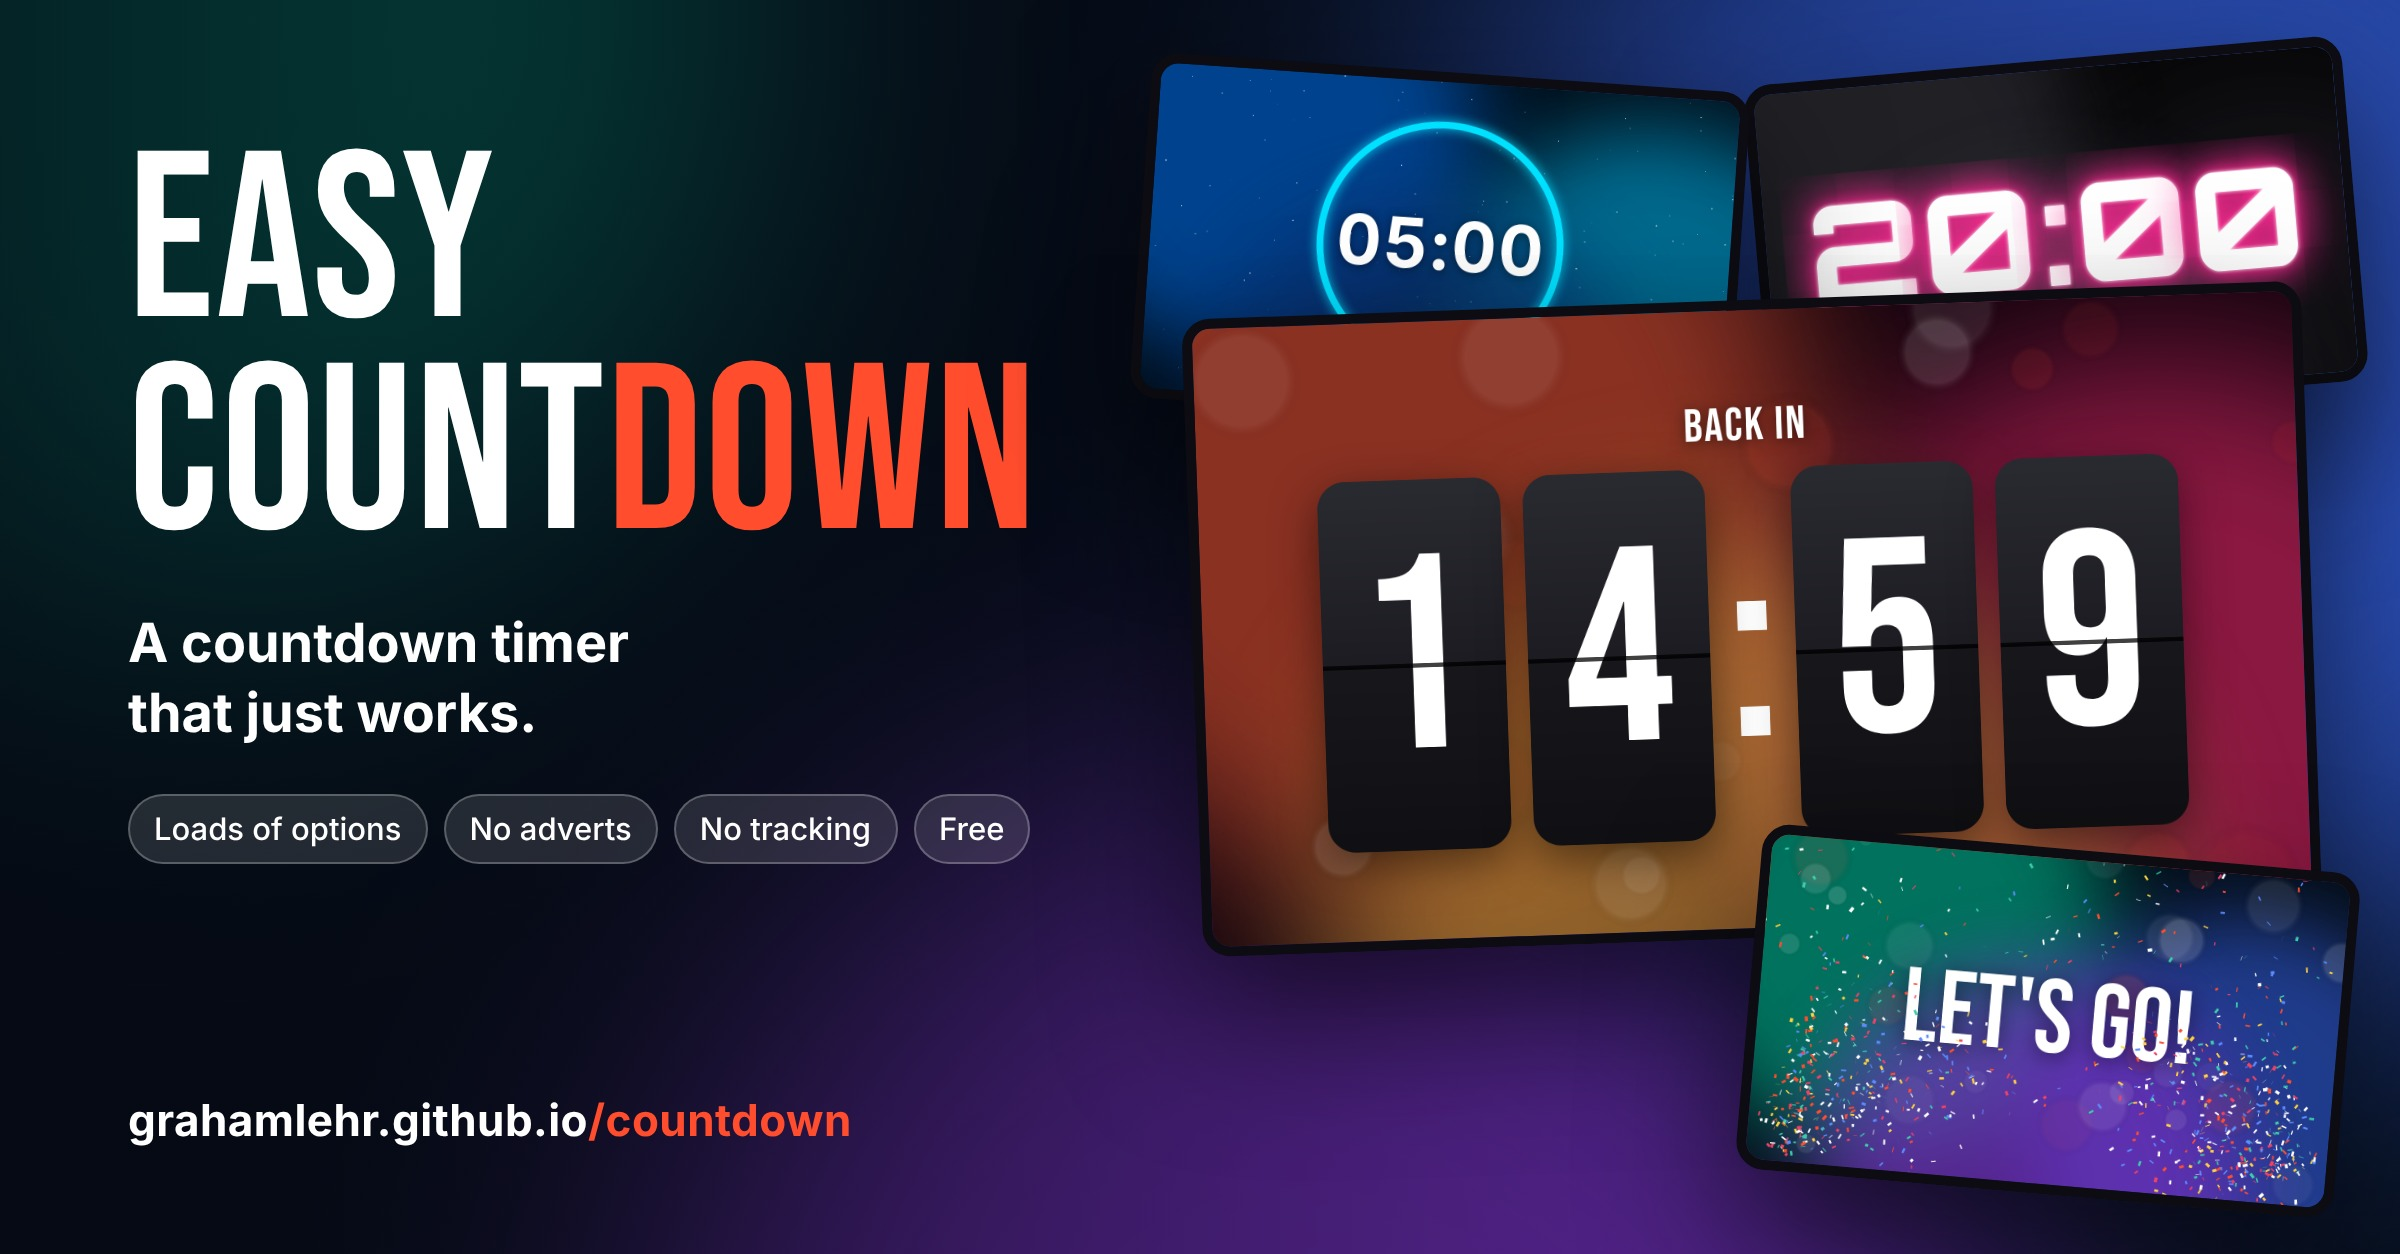
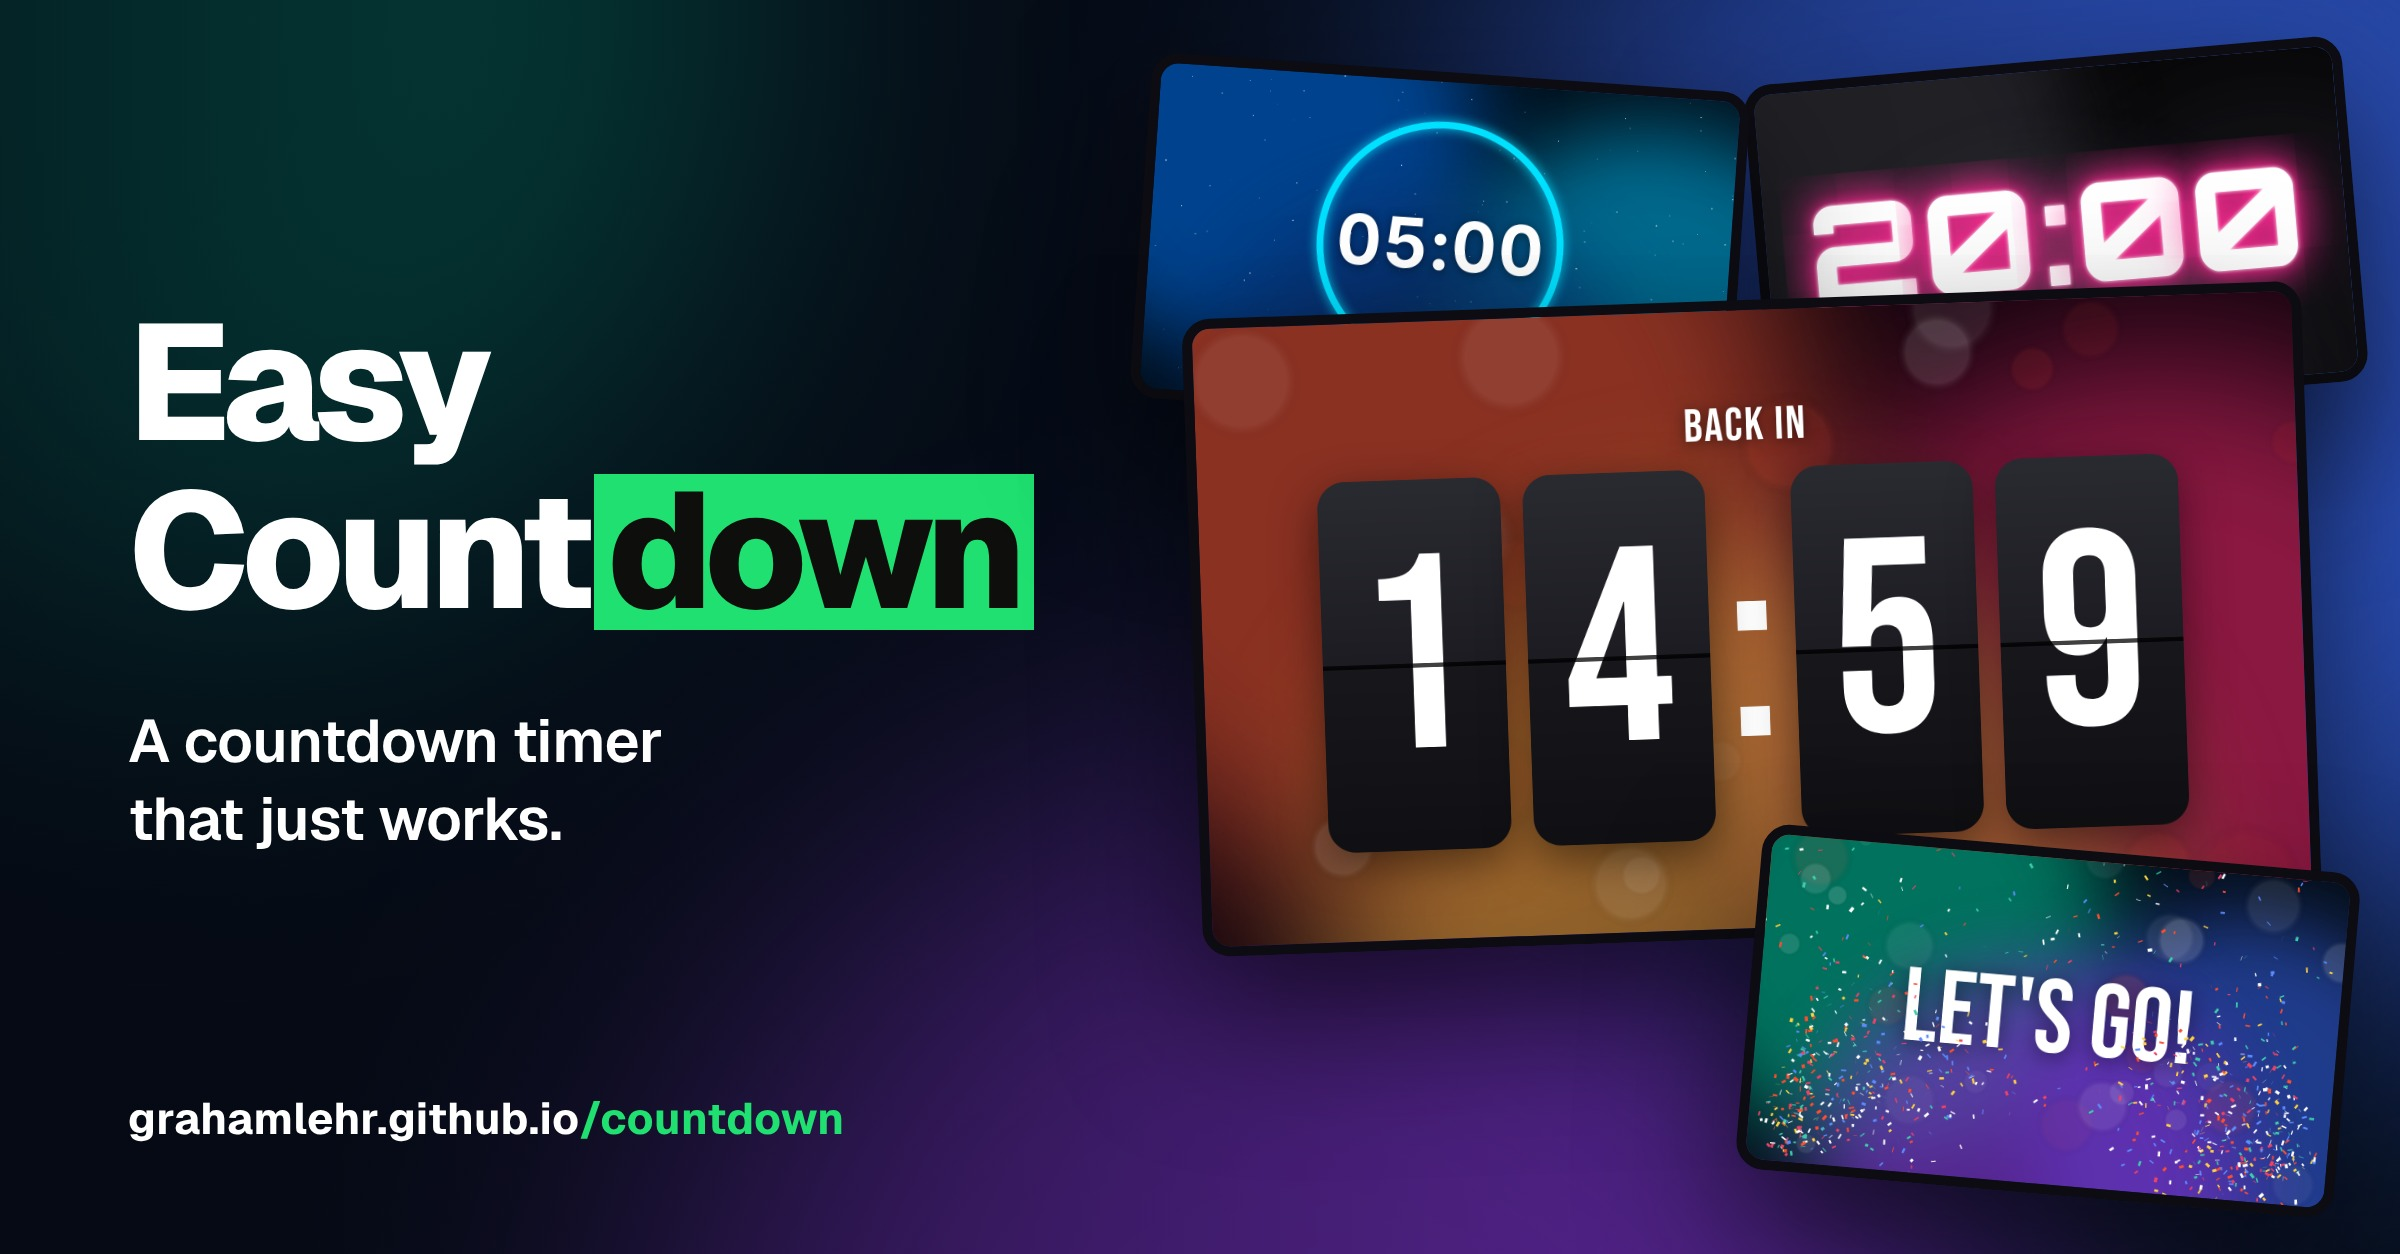
Add font upload to Easy Countdown and restyle the social image
Upload a TrueType or OpenType font (also WOFF/WOFF2) to use for the
timer; it is kept on the computer and works with MP4 export. The social
image now uses Geist and the site's green accent, without the pills.

Claude-Session: https://claude.ai/code/session_01Q31YfXppd3Vp8YhEQeC5hk

Changed region(s): [[0.0312, 0.0933, 0.4375, 0.5287], [0.0312, 0.5598, 0.4375, 0.7153], [0.0625, 0.8708, 0.375, 0.933]]

diff --git a/countdown/index.html b/countdown/index.html
@@ -150,7 +150,7 @@ input[type=checkbox]{width:17px;height:17px;accent-color:#ff4d2e;flex:0 0 auto!i
 .grid button:hover{background:#25252e}
 .grid button.on{border-color:#ff4d2e;background:#2a1712}
 .grid button span{font-size:21px;line-height:1;font-weight:700;font-synthesis:none}
-.grid button small{font:400 10.5px system-ui,sans-serif;color:#8d8d9a}
+.grid button small{font:400 10.5px system-ui,sans-serif;color:#8d8d9a;max-width:92%;overflow:hidden;text-overflow:ellipsis;white-space:nowrap}
 .grid.styles{grid-template-columns:repeat(3,1fr)}
 .grid.styles button{height:36px;font-size:13px}
 .out{flex:0 0 40px!important;text-align:right;color:#8d8d9a;font-variant-numeric:tabular-nums}
@@ -217,6 +217,9 @@ input[type=checkbox]{width:17px;height:17px;accent-color:#ff4d2e;flex:0 0 auto!i
   <section>
     <h2>Font</h2>
     <div class="grid" id="fonts"></div>
+    <div class="row" style="margin-bottom:6px"><button class="btn" id="pickFont">Upload your own font&hellip;</button><button class="btn icon" id="unfont" title="Remove your font" aria-label="Remove your font" hidden>&#10005;</button></div>
+    <input type="file" id="fontFile" accept=".ttf,.otf,.woff,.woff2,font/ttf,font/otf" hidden>
+    <p class="note" id="fontNote" style="margin-bottom:16px">TrueType or OpenType (.ttf, .otf). It stays on this computer.</p>
     <h2>Timer style</h2>
     <div class="grid styles" id="styles"></div>
     <div class="row"><label>Text colour</label><input type="color" data-k="color"><label style="flex:0 0 auto;color:#b9b9c4">Accent</label><input type="color" data-k="accent"></div>
@@ -315,6 +318,7 @@ const DEF={mode:'duration',h:0,m:10,s:0,until:'',title:'',endMsg:"Time's up",fon
 const KEY='easy-countdown-v1';
 let S={...DEF};
 try{Object.assign(S,JSON.parse(localStorage.getItem(KEY)||'{}'))}catch{}
+const CUSTOM='Uploaded font',wantCustom=S.font===CUSTOM;
 if(!FONTS.some(f=>f.n===S.font))S.font=DEF.font;
 if(!S.until){const d=new Date(Date.now()+36e5);S.until=String(d.getHours()).padStart(2,'0')+':00'}
 const save=()=>{try{localStorage.setItem(KEY,JSON.stringify(S))}catch{}};
@@ -422,7 +426,10 @@ function colors(){const c=lvl==='crit'?'#ff3b30':lvl==='warn'?'#ffb020':null;
 function fill(){$$('[data-k]').forEach(el=>{const v=S[el.dataset.k];if(el.type==='checkbox')el.checked=!!v;else el.value=v})}
 
 /* ---------- Panel wiring ---------- */
-$('#fonts').innerHTML=FONTS.map(f=>`<button data-v="${f.n}"><span style="font-family:'${f.n}'">12:34</span><small>${f.label||f.n}</small></button>`).join('');
+function renderFonts(){const box=$('#fonts');box.textContent='';
+  for(const f of FONTS){const b=document.createElement('button'),s=document.createElement('span'),l=document.createElement('small');
+    b.dataset.v=f.n;b.classList.toggle('on',f.n===S.font);s.style.fontFamily=`"${f.n}"`;s.textContent='12:34';l.textContent=f.label||f.n;b.append(s,l);box.append(b)}}
+renderFonts();
 $('#styles').innerHTML=STYLES.map(([v,l])=>`<button data-v="${v}">${l}</button>`).join('');
 $('#presets').innerHTML=[1,2,5,10,15,20,30,45,60].map(m=>`<button data-m="${m}">${m} min</button>`).join('');
 $('#fonts').onclick=e=>{const b=e.target.closest('button');if(b){S.font=b.dataset.v;apply()}};
@@ -457,8 +464,27 @@ function setMedia(file,persist){if(mediaUrl)URL.revokeObjectURL(mediaUrl);mediaU
 $('#pick').onclick=()=>$('#file').click();
 $('#file').onchange=e=>{const f=e.target.files[0];if(f)setMedia(f,true);e.target.value=''};
 $('#unpick').onclick=()=>setMedia(null,true);
+
+/* ---------- Your own font (TrueType / OpenType) ---------- */
+const FONT_HINT='TrueType or OpenType (.ttf, .otf). It stays on this computer.';let customFace=null;
+async function setFont(file,persist,select=persist){const note=$('#fontNote'),i=FONTS.findIndex(f=>f.n===CUSTOM);
+  if(file){let face;
+    try{face=new FontFace(CUSTOM,await file.arrayBuffer());await face.load()}
+    catch{note.textContent='That file could not be read as a font. Please try a .ttf or .otf file.';return}
+    if(customFace)document.fonts.delete(customFace);document.fonts.add(face);customFace=face;
+    const e={n:CUSTOM,w:400,label:(file.name||'Your font').replace(/\.[^.]+$/,'')};i<0?FONTS.push(e):FONTS[i]=e;
+    if(persist)idb('readwrite',s=>s.put(file,'font')).catch(()=>{});
+    if(select)S.font=CUSTOM}
+  else{if(customFace)document.fonts.delete(customFace);customFace=null;if(i>=0)FONTS.splice(i,1);
+    if(S.font===CUSTOM)S.font=DEF.font;idb('readwrite',s=>s.delete('font')).catch(()=>{})}
+  note.textContent=FONT_HINT;$('#unfont').hidden=!customFace;renderFonts();sig='';apply()}
+const isFont=f=>/\.(ttf|otf|woff2?)$/i.test(f.name);
+$('#pickFont').onclick=()=>$('#fontFile').click();
+$('#fontFile').onchange=e=>{const f=e.target.files[0];if(f)setFont(f,true);e.target.value=''};
+$('#unfont').onclick=()=>setFont(null,true);
+idb('readonly',s=>s.get('font')).then(f=>{if(f)setFont(f,false,wantCustom)}).catch(()=>{});
 addEventListener('dragover',e=>e.preventDefault());
-addEventListener('drop',e=>{e.preventDefault();const f=[...e.dataTransfer.files].find(f=>/^(image|video)\//.test(f.type));if(f)setMedia(f,true)});
+addEventListener('drop',e=>{e.preventDefault();const ff=[...e.dataTransfer.files].find(isFont);if(ff)return setFont(ff,true);const f=[...e.dataTransfer.files].find(f=>/^(image|video)\//.test(f.type));if(f)setMedia(f,true)});
 idb('readonly',s=>s.get('bg')).then(f=>{if(f)setMedia(f,false)}).catch(()=>{});
 
 /* ---------- Keyboard and chrome ---------- */

diff --git a/README.md b/README.md
@@ -39,7 +39,7 @@ Enter [S⁴ - The Simple Site-visit Slide Sorter](https://grahamlehr.github.io/t
 
 **Easy Countdown**
 
-[Easy Countdown](https://grahamlehr.github.io/countdown/) is a countdown timer that just works, with loads of options to customise it: your own background image or video, fonts, timer styles, a big final ten seconds and confetti. Go full screen and start it with the space bar, or export the countdown as an MP4 to drop into your show file. No adverts, no tracking.
+[Easy Countdown](https://grahamlehr.github.io/countdown/) is a countdown timer that just works, with loads of options to customise it: your own background image or video, built-in or uploaded fonts, timer styles, a big final ten seconds and confetti. Go full screen and start it with the space bar, or export the countdown as an MP4 to drop into your show file. No adverts, no tracking.
 
 ## Asset Creation
 
